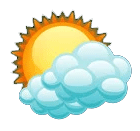
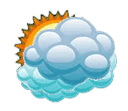
Version 2.0

diff --git a/src/componets/WeatherCard.jsx b/src/componets/WeatherCard.jsx
@@ -9,41 +9,49 @@ const WeatherCard = ({ weather }) => {
 
   const [isCen, setIsCen] = useState(false)
   const handleBoolean = () => setIsCen(!isCen)
- 
 
-//https://openweathermap.org/img/wn/10d@4x.png
 
   console.log(weather)
   return (
     <article className='card'>
       <div className='card__title'>Weather App</div>
       <div className='card_name'>{`${weather?.name}, ${weather?.sys.country}`}</div>
-      <div>
-          {/* <img className='img__weather' src="../public/raining.png" alt="" /> */}
-          <img className='img__weather' src={weather && `https://openweathermap.org/img/wn/${weather?.weather[0].icon}@4x.png`} alt="" />
-      </div>
 
-      <div className='card__wind'>{`Wind Speed:${weather?.wind.speed}m/s`}</div>
-      <div className='card__clouds'>{`Clouds:${weather?.clouds.all}%`}</div>
-      <div className='card__pressure'>{`Pressure:${weather?.main.pressure}hPa`}</div>
-     
+      <div>
+        <img className='img__weather' src={weather && `../public/${weather?.weather[0].icon}.png`} alt="" />
+      </div>
+      <div><span className='card__description'>{weather?.weather[0].description}</span></div>
+
+
+
+      <div><span className='card__data'>Wind Speed: </span>{`${weather?.wind.speed}m/s`}</div>
+      <div><span className='card__data'>Clouds: </span>{`${weather?.clouds.all}%`}</div>
+      <div><span className='card__data'>Pressure: </span>{`${weather?.main.pressure}hPa`}</div>
+
+
+
+
+
+
+
+
       <div>
         {
           isCen ?
-            <div className='card__temp'>{`Temp: ${tempF} ⁰F`}</div>
+            <div className='card__temp'>{`${tempF} ⁰F`}</div>
             :
-            <div className='card__temp'>{`Temp: ${tempC} ⁰C`}</div>
+            <div className='card__temp'>{`${tempC} ⁰C`}</div>
         }
       </div>
       <div>
         <button className='card__button' onClick={handleBoolean}>
-        {
-          isCen ?
-            'Change to ⁰C'
-            :
-            'Change to ⁰F'
-        }  
-          
+          {
+            isCen ?
+              'Change to ⁰C'
+              :
+              'Change to ⁰F'
+          }
+
         </button>
       </div>
 
@@ -51,7 +59,7 @@ const WeatherCard = ({ weather }) => {
 
 
 
-    </article>
+    </article >
 
 
   )

diff --git a/src/App.css b/src/App.css
@@ -15,8 +15,8 @@ body {
 .card {
     display: grid;
     grid-template-columns: 100%;
-    grid-template-rows: 48px 30px 110px 20px 20px 20px;
-    gap: 10px;
+    grid-template-rows: 40px 35px 90px 40px 20px 20px 30px 20px 20px;
+    gap: 8px;
     margin: 50px auto;
     width: 300px;
     height: 400px;
@@ -26,6 +26,7 @@ body {
     background-position: center;
     background-repeat: no-repeat;
     text-align: center;
+    border-radius: 8px;
 }
 
 .card__title {
@@ -43,9 +44,28 @@ body {
     
 }
 
+
+.card__description {
+    color: aqua;
+    font-size: 1.1em;
+}
+
+.card__data {
+    color: aqua;
+    font-size: 0.9em;
+}
+
+.card__temp{
+    color: aqua;
+    font-size: 1.3em; 
+    font-weight: bold;
+}
+
 .card__button {
     padding: 6px 20px;
     font-size: 1em;
+    border-radius: 6px;
+    border: none;
 }
 .card__button:hover {
     font-size: 1.1em;
